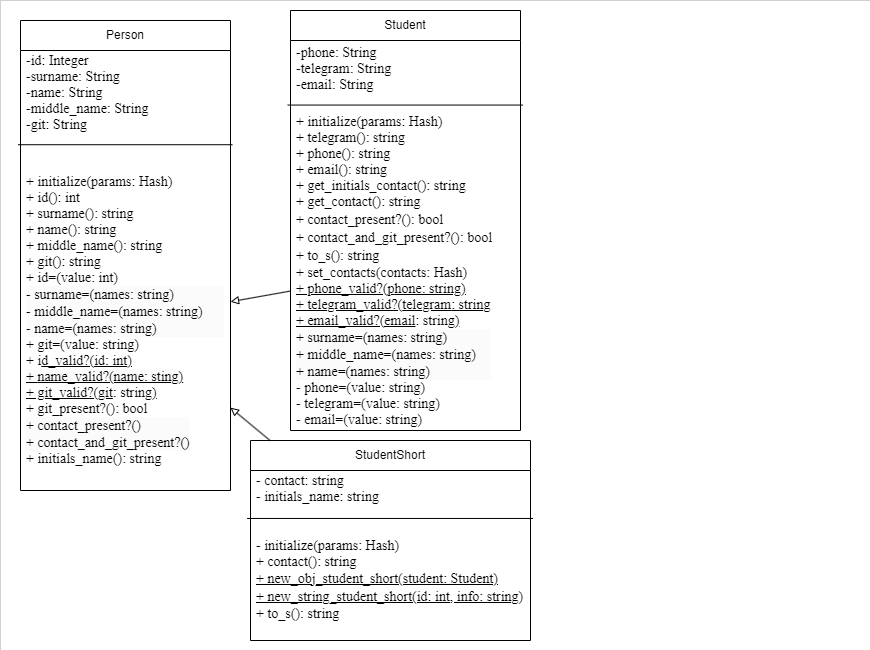
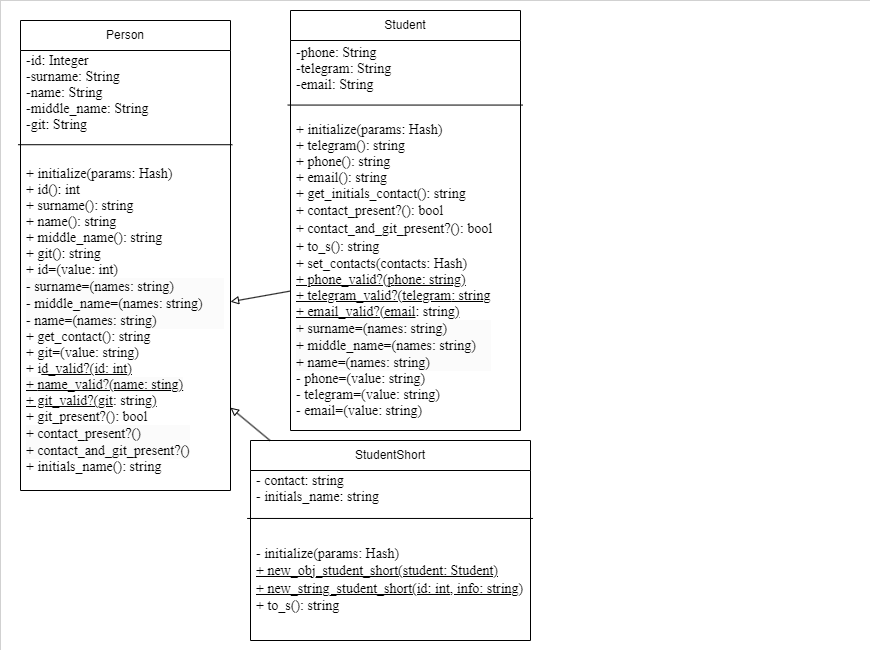
Update diogramm

Changed region(s): [[0.3414, 0.1846, 0.5897, 0.6769], [0.031, 0.2462, 0.2483, 0.7385], [0.2793, 0.8308, 0.6207, 0.9538]]

diff --git a/working with classes/Person.rb b/working with classes/Person.rb
@@ -39,6 +39,10 @@ class Person
   def git_present?
     !@git.nil? && !@git.strip.empty?
   end
+
+  def get_contact 
+    "#{phone || telegram || email}"
+  end
   
   def contact_present?
     raise NotImplementedError, 'Метод contact_present? должен быть реализован в подклассе'

diff --git a/working with classes/Student.rb b/working with classes/Student.rb
@@ -16,10 +16,6 @@ class Student < Person
     "#{initials_name}; GitHub: #{@git}; Связь: #{get_contact}"
   end
 
-  def get_contact 
-    "#{phone || telegram || email}"
-  end
-
   def contact_present?
     [@phone, @telegram, @email].any? { |contact| contact && !contact.strip.empty? }
   end

diff --git a/working with classes/Student_short.rb b/working with classes/Student_short.rb
@@ -2,8 +2,6 @@ require_relative 'Person'
 
 class StudentShort < Person
 
-  attr_reader :contact
-
   # Метод для создания объекта из объекта Student
   def self.new_obj_student_short(student)
     new(
